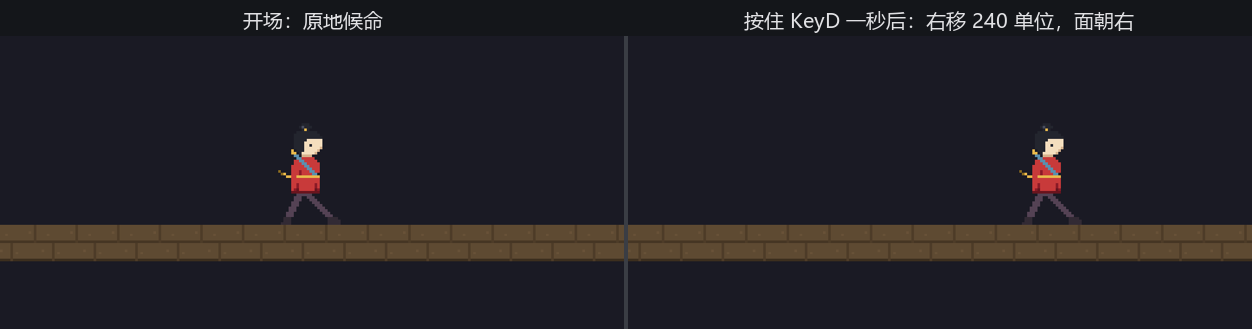
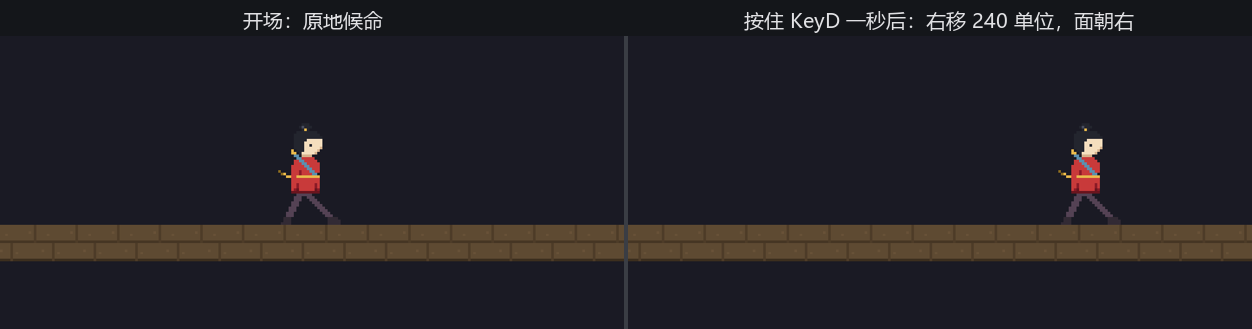
ch17: 迁移到 0.19

Changed region(s): [[0.8099, 0.4255, 0.9034, 0.6687]]

diff --git a/scripts/make_ch17_figures.py b/scripts/make_ch17_figures.py
@@ -77,6 +77,8 @@ class INPUT(ctypes.Structure):
 INPUT_MOUSE, INPUT_KEYBOARD = 0, 1
 KEYEVENTF_KEYUP, KEYEVENTF_SCANCODE = 0x2, 0x8
 MOUSEEVENTF_MOVE = 0x0001
+# 连续注入的相对位移会被系统合并（coalesce）而丢量，加此标志逐条保真
+MOUSEEVENTF_MOVE_NOCOALESCE = 0x2000
 MOUSEEVENTF_LEFTDOWN, MOUSEEVENTF_LEFTUP = 0x0002, 0x0004
 MOUSEEVENTF_RIGHTDOWN, MOUSEEVENTF_RIGHTUP = 0x0008, 0x0010
 MOUSEEVENTF_WHEEL = 0x0800
@@ -167,13 +169,24 @@ def park_cursor(hwnd: int, fx: float, fy: float) -> None:
 
 
 def drag_right_button(dx: int, dy: int, steps: int = 12) -> None:
-    """按住右键做相对位移拖动（喂 MouseMotion）。"""
+    """按住右键做相对位移拖动（喂 MouseMotion）。
+
+    首尾都留足几帧余量：位移只在“右键按住”的帧里生效，若 DOWN/UP 与
+    某批位移挤进同一帧折叠（截图等卡顿时会发生），该帧 pressed 为 false、
+    整帧位移作废——拉开间隔保证 DOWN/UP 各自独立成帧，位移才全量到账。
+    """
     _send(_mouse(flags=MOUSEEVENTF_RIGHTDOWN))
-    time.sleep(0.05)
+    time.sleep(0.5)
     for _ in range(steps):
-        _send(_mouse(dx=dx // steps, dy=dy // steps, flags=MOUSEEVENTF_MOVE))
-        time.sleep(0.02)
-    time.sleep(0.05)
+        _send(
+            _mouse(
+                dx=dx // steps,
+                dy=dy // steps,
+                flags=MOUSEEVENTF_MOVE | MOUSEEVENTF_MOVE_NOCOALESCE,
+            )
+        )
+        time.sleep(0.05)
+    time.sleep(0.5)
     _send(_mouse(flags=MOUSEEVENTF_RIGHTUP))
 
 

diff --git a/PROGRESS.md b/PROGRESS.md
@@ -12,7 +12,7 @@
 | 全书大纲 OUTLINE.md | ✅ 2026-06-12 | 38 章 + 6 附录，用户已审定 |
 | 章节写作 | 🟡 | 进度见下表 |
 | Bevy 0.19 大纲评估与 OUTLINE 修订 | ✅ 2026-07-02 | migration/0.19-outline-assessment.md，P-1～P-13 全部批准；38 章 + 6 附录结构不变，ch1–21 编号全保 |
-| 0.19 全书迁移执行（S1–S3） | 🟡 | 计划与逐章工单见 migration/0.19-migration-plan.md；S1＋前置检查点 C1/C2 完成 2026-07-02（workspace 切 0.19.0 全绿零警告；C1：字体方案不换，ICU4X 警告与裁切变化记入 ch16 工单；C2：资源实体占低位索引、count_spawned 计入、广查询可见——实测数据见计划文件），S2 逐章迁移进行中（ch1–16 ✅ 2026-07-03） |
+| 0.19 全书迁移执行（S1–S3） | 🟡 | 计划与逐章工单见 migration/0.19-migration-plan.md；S1＋前置检查点 C1/C2 完成 2026-07-02（workspace 切 0.19.0 全绿零警告；C1：字体方案不换，ICU4X 警告与裁切变化记入 ch16 工单；C2：资源实体占低位索引、count_spawned 计入、广查询可见——实测数据见计划文件），S2 逐章迁移进行中（ch1–17 ✅ 2026-07-03） |
 
 ## 章节状态
 
@@ -34,7 +34,7 @@
 | 14 | Asset 系统 | ✅ | code/ch14-assets（src/main.rs + examples/listing-14-01～11，main.rs 即 Listing 14-12；开 bevy `file_watcher` feature，依赖 thiserror）；book/src/ch14-00～09；插图 images/ch14（Figure 14-1～7，scripts/make_ch14_figures.py 一键重建；美术资产由 scripts/make_ch14_assets.py 生成）；已迁 0.19（新增“白纸黑字：把资产存回磁盘”一节（ch14-07，AssetSaver/save_using_saver，配 listing-14-09，原 09/10 顺延为 10/11、细则与开机大吉顺延为 ch14-08/09）；load_builder 正文跟进；热重载三实验回归；5 张运行图重建逐图核对） |
 | 15 | 2D 渲染：Sprite 与图集 | ✅ | code/ch15-sprites（src/main.rs + examples/listing-15-01～11，main.rs 即 Listing 15-12）；book/src/ch15-00～07；插图 images/ch15（Figure 15-1～14，含 3 张 SVG、1 张动图，scripts/make_ch15_figures.py 一键重建；美术资产由 scripts/make_ch15_assets.py 生成）；已迁 0.19（代码零改；load_builder 口径跟进、border 越界 ERROR 块按实跑双条更新；11 张运行图重建逐图核对，其中 8 张与旧版逐字节一致） |
 | 16 | 文本与字体 | ✅ | 已迁 0.19。code/ch16-text（src/main.rs + examples/listing-16-01～14，main.rs 即 Listing 16-15；listing-16-05 走 crate 转发 feature `system_font_discovery` + required-features 门控；中文字体资产为 Noto Sans SC 的 GB2312 子集，另有可变字体 MonaSans-VariableFont.ttf，scripts/make_ch16_assets.py 一键重建）；book/src/ch16-00～12（新增 16-03 字模三种叫法／16-04 向系统借字模／16-05 可变字体／16-07 会自己变的字号）；插图 images/ch16（Figure 16-1～16，含 1 张 SVG、2 张动图，scripts/make_ch16_figures.py 一键重建） |
-| 17 | 输入处理 | ✅ | code/ch17-input（src/main.rs + examples/listing-17-01～07，其中 17-02 在 no-compile/ 下为编译失败示例；main.rs 即 Listing 17-9；assets 全部复用 ch15/ch16，scripts/make_ch17_assets.py 一键就位）；book/src/ch17-00～07；插图 images/ch17（Figure 17-1～8，含 4 张 SVG、1 张动图，scripts/make_ch17_figures.py 用 SendInput 发真实键鼠一键重建） |
+| 17 | 输入处理 | ✅ | code/ch17-input（src/main.rs + examples/listing-17-01～07，其中 17-02 在 no-compile/ 下为编译失败示例；main.rs 即 Listing 17-9；assets 全部复用 ch15/ch16，scripts/make_ch17_assets.py 一键就位）；book/src/ch17-00～07；插图 images/ch17（Figure 17-1～8，含 4 张 SVG、1 张动图，scripts/make_ch17_figures.py 用 SendInput 发真实键鼠一键重建）；已迁 0.19（代码零改、输出块零改——键鼠全示例实跑逐字一致，含系统重复探针与 448/−512 坐标复现；gamepad/touch 无硬件，vendor 源码 0.18↔0.19 diff 实证零变化＋编译实跑容错路径；4 张位图重建，fig-17-05 与旧图逐像素一致） |
 | 18 | 时间、定时器与 FixedUpdate | ✅ | code/ch18-time（src/main.rs + examples/listing-18-01～09，其中 18-02 在 no-compile/ 下为编译失败示例；main.rs 即 Listing 18-10；assets 全部复用 ch15/ch16，scripts/make_ch18_assets.py 一键就位）；book/src/ch18-00～06；插图 images/ch18（Figure 18-1～10，含 6 张 SVG、1 张动图，scripts/make_ch18_figures.py 用 SendInput 发真实按键一键重建） |
 | 19 | 音频 | ✅ | code/ch19-audio（src/main.rs + examples/listing-19-01～08，main.rs 即 Listing 19-9；开 bevy `wav` feature，报错环节为运行期 UnrecognizedFormat panic（19.1，真实复现）；音频资产全部由 scripts/make_ch19_assets.py 用 Python 标准库合成 WAV，字体贴图复用前章）；book/src/ch19-00～06；插图 images/ch19（Figure 19-1～7，含 3 张 SVG，scripts/make_ch19_figures.py 用 SendInput 发真实按键一键重建，波形图直接读合成 WAV 采样绘制） |
 | 20 | 项目实战 I：完整的 2D 游戏 | ✅ | code/ch20-breakout（src/ 为 main.rs + game/menu/score/audio 四插件的最终版；examples/listing-20-01～07 为分步阶段版，no-compile/listing-20-08 为编译失败示例；开 bevy `wav` feature，报错环节为 E0603 与“忘注册插件→缺资源 panic”双坑，均真实复现；音效由 scripts/make_ch20_assets.py 合成，BGM/堂鼓复用 ch19、字体复用 ch16）；book/src/ch20-00～08；插图 images/ch20（Figure 20-1～11，含 4 张 SVG、1 张动图，scripts/make_ch20_figures.py 一键重建——内置跟球 bot 发真实按键打出全部局面） |

diff --git a/migration/0.19-migration-plan.md b/migration/0.19-migration-plan.md
@@ -110,7 +110,7 @@ workspace 版本切 0.19    →    每章：行为实测→正文改写→插图
 | ch14 | [x] | 新增 listing-14-09（ScriptSaver + save_using_saver 存盘→读回闭环），原 09/10 顺延为 10/11（文件头、embedded 路径 `listing_14_11` 同步），main 即 Listing 14-12；产物 opening-final.script(.meta) 入 .gitignore；`Reader` seekable 核对：新必答方法只落在 Reader **实现方**，本章 loader 是消费方（`&mut dyn Reader` 只调 read_to_end），零波及（S1 编译已证） | 已完成：**新小节「白纸黑字：把资产存回磁盘」**（ch14-07，热重载后、细则前；细则/开机大吉顺延 ch14-08/09）——ScriptSaver 做装载器的镜像（`OutputLoader` 契约、save 返回值进 .meta），IoTaskPool 异步存盘、`Task` 回执 `check_ready` 轮询（官方 async_compute 姿势）、存后用自家 loader 读回验证；实跑：定稿+.meta 落盘、二跑幂等、批注不往返写成教学点（练习 5 新增）；**load_builder 正文跟进**（细则「代码路」按「`load` 是 `load_builder().load` 省写」改写，`with_settings` 口径全章统一，fig-14-05 标签重制为 load_builder）；热重载三实验回归全成立（改词重载/改坏保旧/换图即换，报错行号 11→10 按实跑）；输出块按实跑：14-02 货号 index 7→8、14-03 0.23 秒、14-04 回收帧 172、14-06 到货 3/6/7（解读句去除逐件归属）、main 3/7/8；5 张运行图重建逐图核对；**ch14 发现**：ch15-01「当时我们用 `load_with_settings` 逐件改设置」引用旧 API 名 → ch15 迁移时改为 load_builder/with_settings 口径 | 7 | 中＋图 |
 | ch15 | [x] | 代码零改（实证：main+11 listing 全实跑，stdout 输出逐字一致，含 15-10 三个 hex 色值；S1 的 get_mut mut 绑定之外无新命中；check --all-targets 绿） | 已完成：get_mut 正文核对——ch15-07 仅提 `materials.get_mut` 不涉返回值类型，`AssetMut` 走 DerefMut 叙述透明，零改；ch14 移交的 `load_with_settings` 句按新口径改写（「在 `load_builder()` 上挂 `with_settings` 逐件改设置」，引用的 ch14 练习 3 仍成立）；ch15-03「Anchor 在 0.18 里是个独立组件」顺手去版本注记（0.18 期残留）；**listing-15-09 border 越界 ERROR 实测稳定两条**（探针实证：图片就绪当帧 `Changed<Sprite>` 与 `Added` 事件次帧各触发一轮切片计算；两个触发系统 0.18/0.19 一字不差，属时序使然）——输出块改双条＋补一句解释，正文「一行 ERROR/一行明白话」去行数措辞；图集/九宫格逐例实跑核对：越界整张原稿上台（无日志）、装裱三连、平铺、锚点九宫、推拉脚踩实地、Mesh2d 缺料静默隐身、洋红默认材质全部与正文一致；点名 API 对照 0.19 源码全未变（Sprite 八字段与 require 含 Anchor、SpriteImageMode 四变体、TextureSlicer 四成员、BorderRect::all、from_grid 五参、Anchor 九常量 tuple struct、ColorMaterial 四字段/From&lt;Color&gt;/洋红默认、Color 十变体、四 trait 借道 Oklcha、palettes 三本、NodeImageMode、官方 sprite_sheet 示例同名结构） | 14 | 轻＋图（11 张运行图重建逐图核对，其中 8 张与 0.18 期产物逐字节一致——2D 渲染画面像素级不变的实证；动图 106 KB、转身翻面抽帧核对） |
 | ch16 | [x] | 原 10 listing 重编号为 01–03/07–08/10–14，新增 4 个（04 FontSource 三叫法、05 系统字体、06 可变字体、09 FontSize 单位），main 即 Listing 16-15；crate 增设转发 feature `system_font_discovery`（listing-16-05 required-features 门控——**整 crate 常开会让系统回退吃掉豆腐块教学点，实测否决**）；新资产 MonaSans-VariableFont.ttf（OFL 原样分发，assets 脚本从 vendor 复制/bevy 仓库下载）；待查两项落定：`Font::from_bytes(Vec<u8>)->Font` 不再返回 Result 且**不解析**（正文未提及零波及），Text2dReader/Writer＝`TextReader/Writer<Text2d>` 别名、序号语义不变 | 已完成：新增小节 ×4（ch16-03/04/05/07），其余 9 文件全部改写；**C1 两事实落点**：①ICU4X 警告在 ch16-01 豆腐块处正面讲解（实测裸行无时间戳、绕过 tracing、RUST_LOG=off 压不掉、条数随重排波动——提词器 6 秒 40 条在 ch16-09 作重排旁证）②TextBounds 高度实测**完全不裁**（宽度只管折行，溢出行整行淌出框外；C1 的「裁半」实为溢出行压在框图边框上的视觉），ch16-08 框三改写＋listing 标签「装不下就裁」→「装不下呢？」；**行为翻案 ×3**：`.ttc` 从「报错收场」变直接可用（typed load 按类型选 loader＋fontique 认 collection，微软雅黑实测上台）、「借来的字形」不复存在（缺字不回退，16-02 整节改写为「缺字不借」）、路径写错有 `Path not found` ERROR；**新实测**：Family+FontWeight 家族选面成立（handle 丢失会清库——FontStash 教学点）、写错家族名静默消失、generic 无 feature 时 error_once+整行不渲染、开 feature 后 237 家族/五语义族解析/FangSong 直出/豆腐绝迹变静默替换、可变字体 wght/wdth 拨轴+variations 覆盖 weight 字段+无斜面不伪斜、FontSize 六单位 Text2d 全通（vendor doc「viewport 不支持 Text2d」系陈旧注释，以实测为准）、RemSize 20→30 全场 Rem 齐动、LetterSpacing::Rem 乘 RemSize 非字号（枚举 doc 注释有误）；提词器输出 19→18 字（正文原笔误按实跑订正）；插图 16 张全部重建（新增 4 张，SVG 字号标注改 FontSize::Px 口径）；SUMMARY/编号/交叉引用全同步 | 16 | **高**＋图 |
-| ch17 | [ ] | TextFont 机械迁移（1 文件，S1 已扫清） | 主题零命中，跑确认 | 8 | 轻＋图 |
+| ch17 | [x] | 代码零改（S1 的 main.rs TextFont 之外无新命中；bevy_input 源码 0.18↔0.19 diff 实证：gamepad/button_input/common_conditions 逐字节零 diff，keyboard/touch/gestures 仅 reflect 注册差异，mouse 仅 `MouseWheel` 新增 `phase` 字段——本章未触及） | 已完成：**输出块零改**——键盘/鼠标全示例实跑逐字一致（17-04 的 448/−512 坐标精确复现；17-03「系统重复」用连发 keydown 探针实证 repeat 标记与只出一剑；17-05 G 锁定后光标钉死＋位移照动实测）；gamepad/touch 无硬件：编译＋容错路径实跑（无手柄正常跑、鼠标点击不伪装触摸）＋API 对照 vendor 零变化，行为描述维持；no-compile 17-02 报错块探针逐字一致；TextFont 正文零波及；ch17-05「在 0.18 里」版本注记去除（唯一正文改动）；官方示例 touch_input.rs 仍在；4 位图重建、fig-17-05 与旧图逐像素一致（曾现拖动丢步，探针链实证为 SendInput 注入 bot 的帧对齐脆弱性、非引擎变化——写入值与渲染闭环全量 1053.5，`drag_right_button` 加 NOCOALESCE＋首尾 0.5s 缓冲后确定性全量），4 SVG 无过期标注 | 8 | 轻＋图 |
 | ch18 | [ ] | TextFont（3 文件，S1 扫清） | **新小节**：延迟命令 `commands.delayed()`（子弹冷却示例的天然升级，配新 listing） | 10 | 轻~中＋图 |
 | ch19 | [ ] | TextFont（S1 已扫清）；`wav` feature 正常 | 音频格式/默认 feature 叙述按 0.19（默认仅 vorbis）；UnrecognizedFormat panic 复现重验；listing-19-08 自算的双耳增益公式对照 rodio 0.22 源码复核（正文数字随之验证） | 7 | 中＋图 |
 | ch20 | [ ] | TextFont（3 文件）；`wav` 正常 | 对标示例路径 showcase/；**全流程回归**：bot 打靶脚本重跑（文本布局变化可能挪 UI 位置，预留调参） | 11 | 中＋图 |
@@ -129,7 +129,7 @@ workspace 版本切 0.19    →    每章：行为实测→正文改写→插图
 
 - [ ] **S3.1** 全量验证：`cargo check --workspace` ＋ 抽样 `cargo run`；`mdbook build book` 绿
 - [ ] **S3.2** 全书无痕检查：`book/src/**/*.md` 全局 grep `0\.18|0\.19 起|更名|旧版|迁移`——除附录 E（未写）与第 1 章版本声明性表述外应零命中；逐条人工判读
-  - S2 移交 S3 的零星复查点：①ch04-04 结尾过渡句「它们不属于任何实体，World 里为它们留了另一种住所」与 ch5 资源实体新模型契合度一般，可微调为「不挂在任何游戏对象上」口径（ch5 会话发现）；②ch03-03「0.15 之前引擎 API 充斥着 SpriteBundle」属引擎史实叙述，是否全书统一口径待定（ch3 会话发现）；③ch07-01 的 Event「曾用名」注记已去版本号最小化保留（读者搜老教程会撞旧名，实用价值高），与②同属引擎史实口径，S3 一并裁决（ch7 会话发现）；④ch08-03「就解锁了大纲里写的那种玩法」——「大纲」是写作工件、读者视角突兀，纯润稿项（ch8 会话发现）；⑤ch12-08 练习 2「参考正文『锚点–本体分离』的思路」——正文全章从未用过该词（读者会回头找不到），宜改为不引用式表述或在 ch12-05 补入该提法，0.18 期既有笔误、非迁移引入（ch12 会话发现）；⑥ICU4X 分词警告为全书性存在——ch17–21 凡含中文文本的示例 stderr 都会出现（本书输出块惯例只录 stdout 故多数不受影响），各章行为实测时留意别把它当新问题，讲解已集中在 ch16-01（ch16 会话发现）
+  - S2 移交 S3 的零星复查点：①ch04-04 结尾过渡句「它们不属于任何实体，World 里为它们留了另一种住所」与 ch5 资源实体新模型契合度一般，可微调为「不挂在任何游戏对象上」口径（ch5 会话发现）；②ch03-03「0.15 之前引擎 API 充斥着 SpriteBundle」属引擎史实叙述，是否全书统一口径待定（ch3 会话发现）；③ch07-01 的 Event「曾用名」注记已去版本号最小化保留（读者搜老教程会撞旧名，实用价值高），与②同属引擎史实口径，S3 一并裁决（ch7 会话发现）；④ch08-03「就解锁了大纲里写的那种玩法」——「大纲」是写作工件、读者视角突兀，纯润稿项（ch8 会话发现）；⑤ch12-08 练习 2「参考正文『锚点–本体分离』的思路」——正文全章从未用过该词（读者会回头找不到），宜改为不引用式表述或在 ch12-05 补入该提法，0.18 期既有笔误、非迁移引入（ch12 会话发现）；⑥ICU4X 分词警告为全书性存在——ch17–21 凡含中文文本的示例 stderr 都会出现（本书输出块惯例只录 stdout 故多数不受影响），各章行为实测时留意别把它当新问题，讲解已集中在 ch16-01（ch16 会话发现）；⑦ch17-01/ch17-07 及 listing-17-02 注释的「`KeyCode::A` 是 0.12 之前的键名」史实叙述与 ch17-01「网上代码多半对应旧版本」读者警示——与②③同属引擎史实口径、非 0.18→0.19 迁移叙事，S3 一并裁决（ch17 会话发现）
 - [ ] **S3.3** 基础设施归位：删除 `vendor/bevy-0.18/`；CLAUDE.md 删「迁移过渡期」条与 API 来源第 4 条（vendor/bevy-0.18 对照）；记忆同步
 - [ ] **S3.4** PROGRESS.md 记录迁移完成；本文件状态改「已完成」
 - [ ] **S3.5** 是否并回 `main` 由用户决定（建议：并回后 `main` 即 0.19 基线，后续新章直接在 main 系分支写）

diff --git a/book/src/ch17-05-gamepads-are-entities.md b/book/src/ch17-05-gamepads-are-entities.md
@@ -20,7 +20,7 @@
 
 <span class="caption">Figure 17-6：Bevy 的手柄词汇表——South 就是 Xbox 的 A、PS 的 ×；下方是 `AxisSettings` 给事件值的出厂滤波</span>
 
-图底下那条刻度是 **死区**（deadzone——摇杆回中时不算数的一小段行程）。用过几年的摇杆松了弹簧，放手归位常停在 0.02 这种位置；不滤掉它，角色就会永远朝一边漂。这件事在 0.18 里分两层（以源码为准，别按旧版本的记忆来）：
+图底下那条刻度是 **死区**（deadzone——摇杆回中时不算数的一小段行程）。用过几年的摇杆松了弹簧，放手归位常停在 0.02 这种位置；不滤掉它，角色就会永远朝一边漂。这件事分两层（以源码为准，网上旧帖的说法未必对得上）：
 
 - **轮询拿到的是原始读数**。`left_stick()`、`gamepad.get(…)` 只把值夹紧在量程内，**不削死区**——所以 Listing 17-6 自留了一道 `STICK_DEADZONE`，比阈值小就当零。轮询摇杆，这道闸自己设，这是惯例；
 - **滤好的成品走事件**。每只手柄实体身上的 `GamepadSettings` 组件存着滤波参数：`AxisSettings` 出厂值是 ±0.05 以内的事件值报 0、死区外的活区线性放大到满程，变化不到 0.01 干脆不发事件——`GamepadAxisChangedEvent` 里的 `value` 是这套加工后的结果。模拟键的“按没按”判定也归它：`ButtonSettings` 默认扣到 0.75 算按下、回到 0.65 算松开，扳机那样的模拟键就这样折算成 `pressed` 的数字答案。